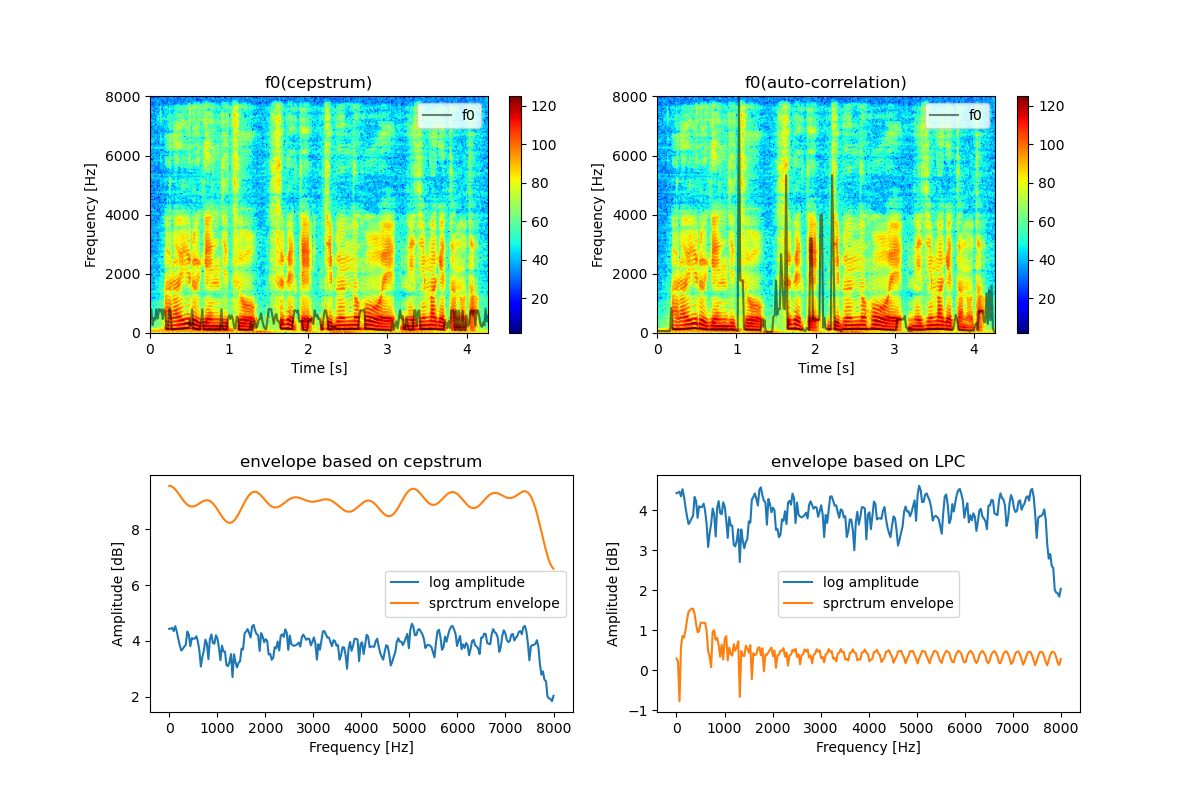
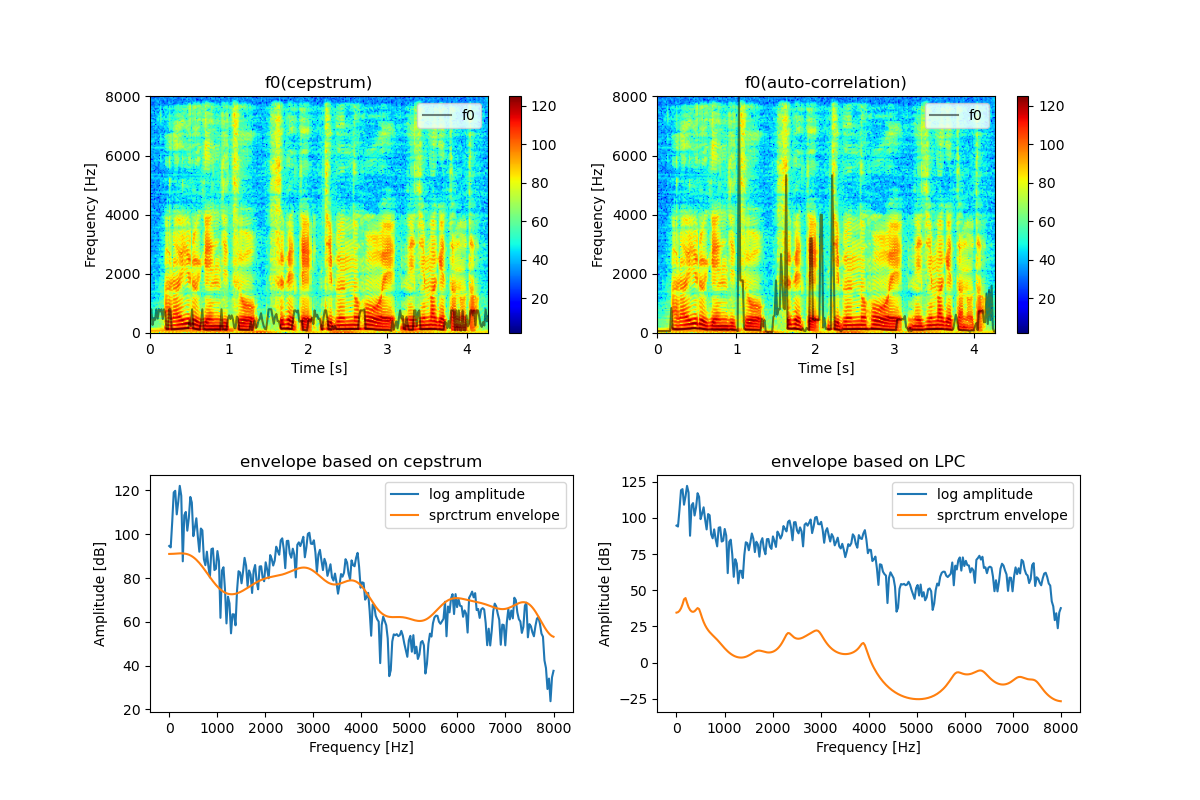
scipyのsolve_toepliz()でうまくいった

diff --git a/ex4/sawada/my_functions/envelope.py b/ex4/sawada/my_functions/envelope.py
@@ -17,7 +17,7 @@ def log_spectrum(data):
         ndarray, axis=(frequency, ): log amplitude
     """
     spectrum = np.fft.fft(data * np.hanning(len(data)))
-    return np.log10(np.abs(spectrum))
+    return 20 * np.log10(np.abs(spectrum))
 
 
 def envelope_cepstrum(data):
@@ -36,21 +36,28 @@ def envelope_cepstrum(data):
 
 # TODO: おかしい
 def envelope_lpc(data, p, fs):
+    data = data * np.hanning(len(data))
     # TODO: docstring
-    auto_correlation = f0.auto_correlation(data)
-    
+    # auto_correlation = f0.auto_correlation(data)
+    auto_correlation = np.correlate(data, data, mode="full")
+    auto_correlation = auto_correlation[auto_correlation.size // 2:]
+    # alphas, e = LevinsonDurbin(auto_correlation, p)
+    # alphas, e = levinson_durbin(auto_correlation, p)
     # alphas = solve_toeplitz(auto_correlation[:p],
     #                         -auto_correlation[1:p + 1])
+    # toe = scipy.linalg.toeplitz(auto_correlation[:p])
+    # alphas = -np.linalg.inv(toe) @ auto_correlation[1:p + 1]
     alphas = scipy.linalg.solve_toeplitz(auto_correlation[:p],
                                          -auto_correlation[1:p + 1])
     alphas = np.append([1], alphas)  # add constant term
-    w, h = scipy.signal.freqz(1, alphas, fs=fs)
+    print(alphas)
+    w, h = scipy.signal.freqz(1, alphas, whole=True, fs=fs)
     
     # fig = plt.figure(figsize=(10, 10))
     # ax = fig.add_subplot(111)
     # ax.plot(log_spectrum(h))
     # fig.show()
-    return log_spectrum(h)
+    return 20 * np.log10(np.abs(h))
 
 
 # TODO: おかしい
@@ -58,33 +65,146 @@ def solve_toeplitz(x, b):
     dimension = len(b)
     if (dimension != len(x)):
         raise ValueError("wrong shape")
-    toeplitz = np.zeros((dimension, dimension))
-    for i in range(dimension):
-        toeplitz[i:, i] = x[:dimension - i]
-        toeplitz[i, i:] = x[:dimension - i]
-    print(toeplitz)
-    answers = np.zeros(dimension)
-    residual_error = np.zeros(dimension)
-    if True:
+    answers = np.zeros(dimension + 1)
+    residual_error = np.zeros(dimension + 1)
+    
+    if False:
+        toeplitz = np.zeros((dimension, dimension))
+        for i in range(dimension):
+            toeplitz[i:, i] = x[:dimension - i]
+            toeplitz[i, i:] = x[:dimension - i]
+        print(toeplitz)
         # とりあえず愚直に逆行列で…
         answers = np.linalg.inv(toeplitz) @ -b
-    else:
+    elif True:
         # base stage
-        answers[0] = -1 * x[1] / x[0]
-        residual_error[0] = x[0] + answers[0] * x[1]
-        print(f"{toeplitz[0, 0]} + {answers[0]} * {toeplitz[1, 0]}")
+        answers[0] = 1
+        answers[1] = -x[1] / x[0]
+        residual_error[0] = x[0] + answers[1] * x[1]
+        # print(f"{toeplitz[0, 0]} + {answers[0]} * {toeplitz[1, 0]}")
         
         # recursive stage
         for i in range(dimension - 1):
             print(i)
             lambda_ = 0
-            for j in range(i + 2):
+            for j in range(i + 1):
                 lambda_ -= answers[j] * b[i + 1 - j]  # NOTE: 怪しい
             lambda_ /= residual_error[i]
+            print(np.concatenate([answers[: i + 1], [0]]),
+
+                                np.concatenate([[0], np.flip(answers[1: i + 1]), [1]]))
             
-            answers[: i + 2] = (np.concatenate([[1], answers[: i + 1], [0]]) +
+            answers[: i + 2] = (np.concatenate([answers[: i + 1], [0]]) +
                                 lambda_ *
-                                np.concatenate([[0], answers[: i + 1], [1]]))[1:]
+                                np.concatenate([[0], np.flip(answers[1: i + 1]), [1]]))
             residual_error[i + 1] = (1 - np.power(lambda_, 2)) * residual_error[i]
-        
-    return answers
+    else:
+        # k = 1の場合
+        answers[0] = 1.0
+        answers[1] = - x[1] / x[0]
+        residual_error[1] = x[0] + x[1] * answers[1]
+        lam = - x[1] / x[0]
+
+        # kの場合からk+1の場合を再帰的に求める
+        for k in range(1, dimension):
+            # lambdaを更新
+            lam = 0.0
+            for j in range(k + 1):
+                lam -= answers[j] * x[k + 1 - j]
+            lam /= residual_error[k]
+
+            # aを更新
+            # UとVからaを更新
+            U = [1]
+            U.extend([answers[i] for i in range(1, k + 1)])
+            U.append(0)
+
+            V = [0]
+            V.extend([answers[i] for i in range(k, 0, -1)])
+            V.append(1)
+
+            answers = np.array(U) + lam * np.array(V)
+
+            # eを更新
+            residual_error[k + 1] = residual_error[k] * (1.0 - lam * lam)
+    return answers[1:]
+def autocorrelation_t(data):
+    """define auto correlation
+
+     Args:
+         data (ndarray): input signal
+
+     Returns:
+         r (ndarray): auto correlation signal
+     """
+    
+    r = np.zeros(len(data))
+    for m in range (data.shape[0]):
+        r[m] = (data[:data.shape[0]-m]*data[m:data.shape[0]]).sum()
+    return r
+
+def lpc(data, order, shift_size):
+    r = autocorrelation_t(data)
+    a, e = levinson_durbin(r[:len(r) // 2], order)
+    # print('a',a)
+
+    h = scipy.signal.freqz(np.sqrt(e), a, shift_size, 'whole')[1]  # 指数変換
+    env_lpc = 20*np.log10(np.abs(h))
+    return env_lpc
+
+def LevinsonDurbin(r, lpcOrder):
+    """Levinson-Durbinのアルゴリズム
+    k次のLPC係数からk+1次のLPC係数を再帰的に計算して
+    LPC係数を求める"""
+    # LPC係数（再帰的に更新される）
+    # a[0]は1で固定のためlpcOrder個の係数を得るためには+1が必要
+    a = np.zeros(lpcOrder + 1)
+    e = np.zeros(lpcOrder + 1)
+
+    # k = 1の場合
+    a[0] = 1.0
+    a[1] = - r[1] / r[0]
+    e[1] = r[0] + r[1] * a[1]
+    lam = - r[1] / r[0]
+
+    # kの場合からk+1の場合を再帰的に求める
+    for k in range(1, lpcOrder):
+        # lambdaを更新
+        lam = 0.0
+        for j in range(k + 1):
+            lam -= a[j] * r[k + 1 - j]
+        lam /= e[k]
+
+        # aを更新
+        # UとVからaを更新
+        U = [1]
+        U.extend([a[i] for i in range(1, k + 1)])
+        U.append(0)
+
+        V = [0]
+        V.extend([a[i] for i in range(k, 0, -1)])
+        V.append(1)
+
+        a = np.array(U) + lam * np.array(V)
+
+        # eを更新
+        e[k + 1] = e[k] * (1.0 - lam * lam)
+
+    return a, e[-1]
+
+def levinson_durbin(r, order):
+
+    a = np.zeros(order+1)
+    k = np.zeros(order)
+    a[0] = 1
+    a[1] = -r[1] /r[0]
+    k[0] = a[1]
+    e = r[0] + r[1] * a[1]
+    for q in range(1, order):
+        k[q] = -np.sum(a[:q+1] * r[q+1:0:-1]) / e  # kの定義
+        U = a[0:q+2]  # aの一番下に0を追加したベクトル
+        V = U[::-1]  # Uの上下を逆にした行列
+        a[0:q+2] = U + k[q] * V  # A(p+1) = U(p+1) + k(p)*V(p+1)
+        e *= 1-k[q] * k[q]  # E(p+1) = E(p)(1-k(p)^2)
+
+    return a, e

diff --git a/ex4/sawada/main.py b/ex4/sawada/main.py
@@ -56,7 +56,8 @@ if __name__ == "__main__":
 
     # envelope
     frame_length = 512
-    target_start_frame = len(wav) // 4
+    # target_start_frame = int(len(wav) * 0.176)
+    target_start_frame = int(len(wav) * 0.176)
     target_frame = wav[target_start_frame: target_start_frame + frame_length]
     log_spectrum_wav = envelope.log_spectrum(target_frame)
     f = np.linspace(0, fs // 2, frame_length // 2)
@@ -69,13 +70,14 @@ if __name__ == "__main__":
     ax3.set_ylabel("Amplitude [dB]")
     ax3.plot(f, log_spectrum_wav[:frame_length // 2],
              label="log amplitude")
-    ax3.plot(f, envelope_cepstrum_wav[0: frame_length // 2],
+    ax3.plot(f, 20 * envelope_cepstrum_wav[0: frame_length // 2],
              label="sprctrum envelope")
     ax3.legend()
     
     # envelope based on LPC
-    p = 20
+    p = 32
     envelope_lpc_wav = envelope.envelope_lpc(target_frame, p, fs)
+    # envelope_lpc_wav = envelope.lpc(target_frame * np.hanning(len(target_frame)), p, 512)
     ax4 = fig.add_subplot(224)
     ax4.set_title("envelope based on LPC")
     ax4.set_xlabel("Frequency [Hz]")
@@ -87,4 +89,4 @@ if __name__ == "__main__":
     ax4.legend()
     
     plt.show()
-    fig.savefig("result_voice_scipy.png")
+    fig.savefig("result_voice_my.png")

diff --git a/ex4/sawada/my_functions/cepstrum.py b/ex4/sawada/my_functions/cepstrum.py
@@ -19,7 +19,7 @@ def cepstrum(data):
     fft_data = np.fft.fft(windowed_data)
     
     # log amplitude
-    log_data = np.log(np.abs(fft_data))
+    log_data = np.log10(np.abs(fft_data))
     
     # cepstrum
     return np.real(np.fft.ifft(log_data))
